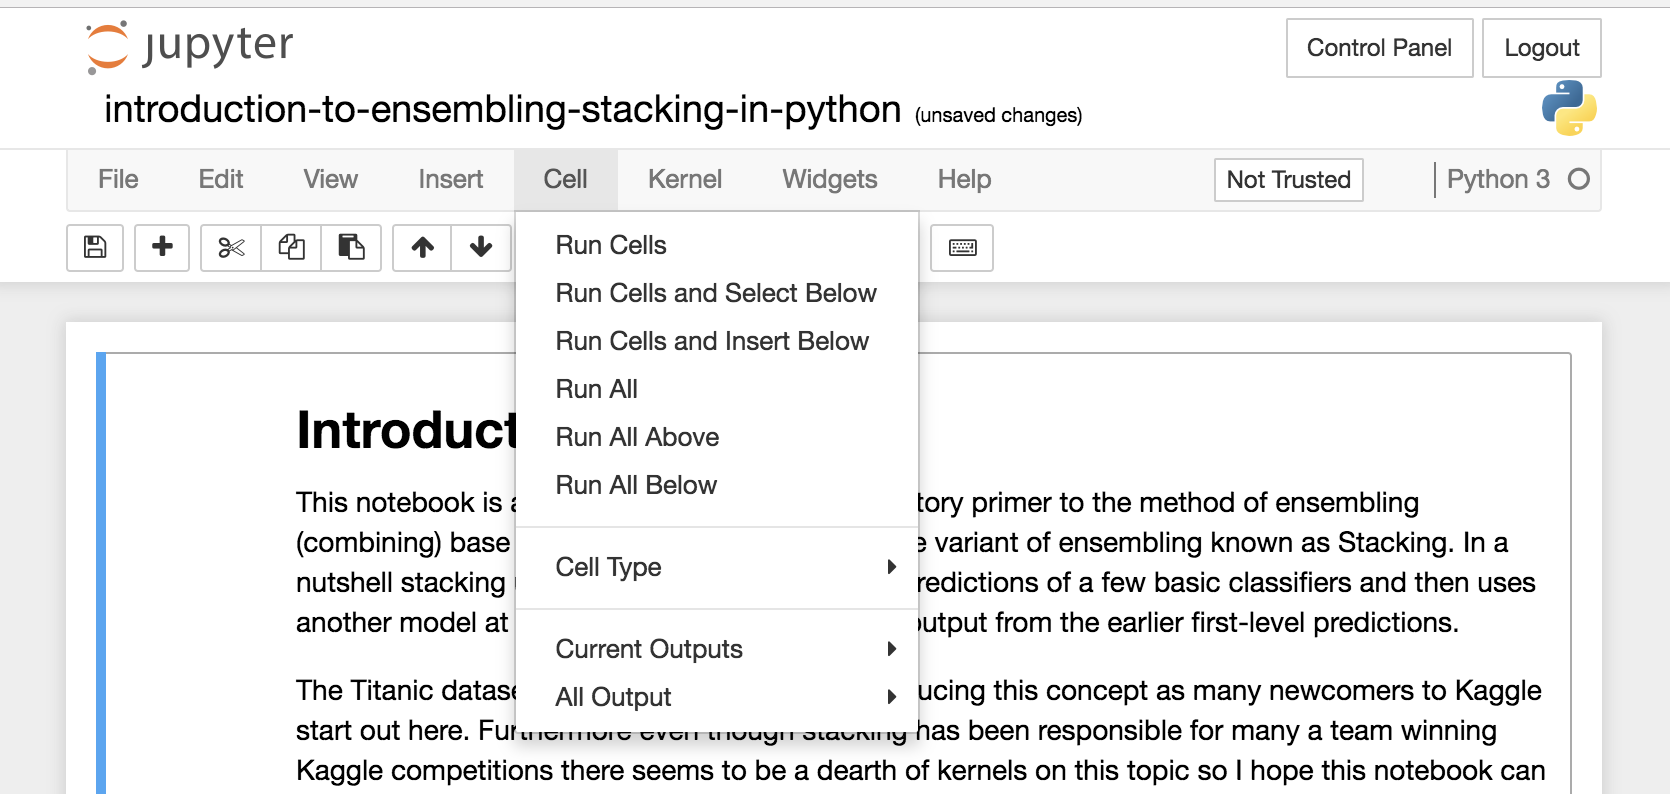
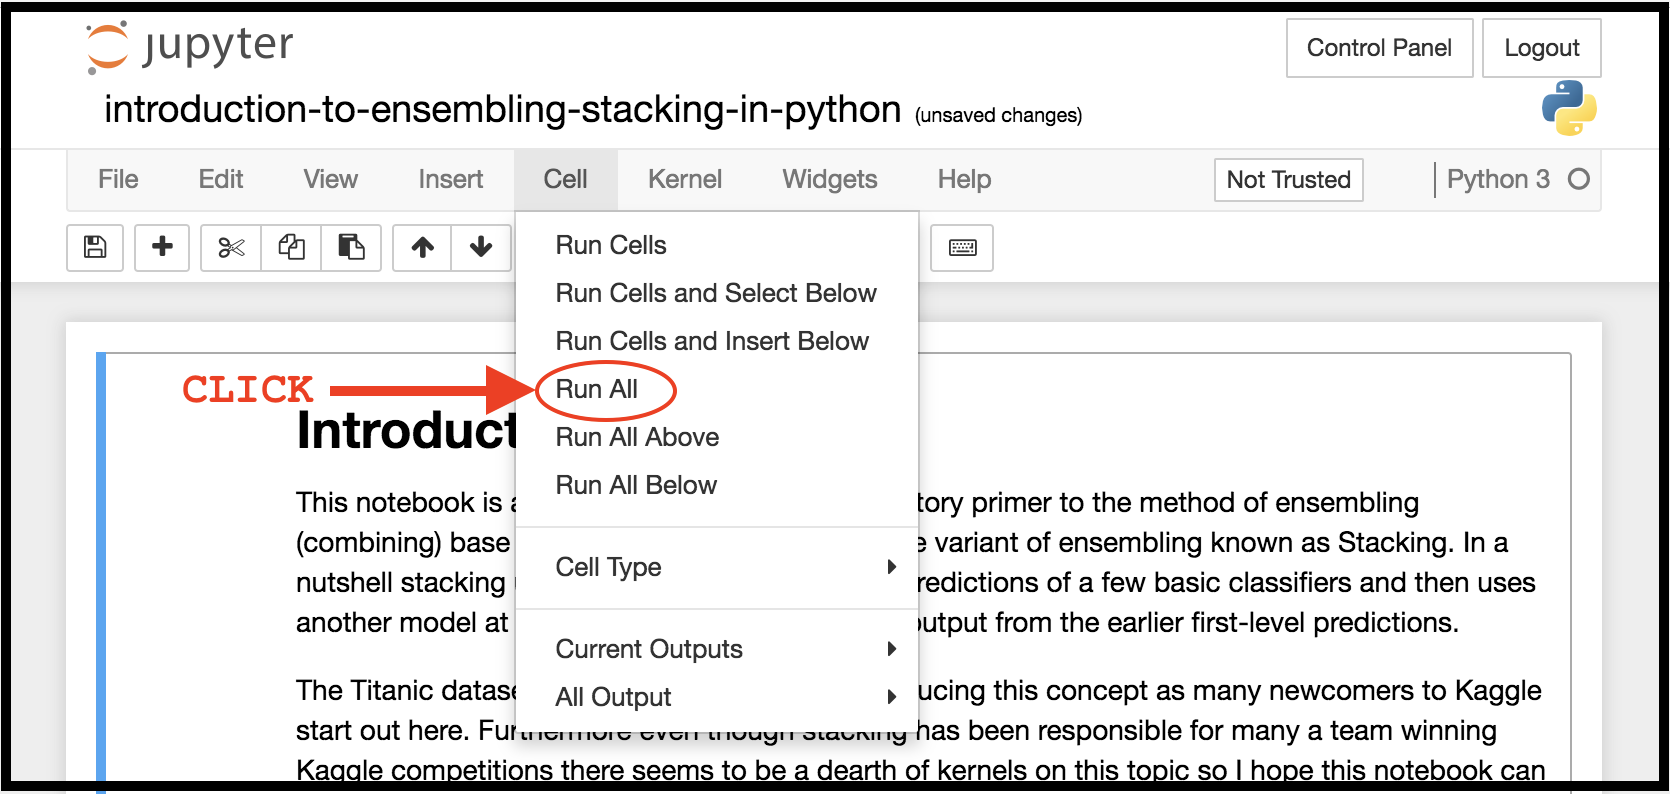
Add cloud shell and deployment pics
And adjust the getting started to direct people to the cloud shell

Changed region(s): [[0.0, 0.0, 1.0, 0.9975], [0.0934, 0.4534, 0.4048, 0.5441]]

diff --git a/README.md b/README.md
@@ -1,16 +1,35 @@
 # Kaggle on Kubeflow on Ubuntu
 
-This is a simple tutorial that walks through running a kaggle experiment on kubeflow on ubuntu.
+This is a simple tutorial that walks through running a kaggle experiment on kubeflow on microk8s on ubuntu.
 These instructions are highly reproducible and you'll be able to leverage them for any competition, with the ability to run your experiments locally or in the cloud.
 
-This tutorial is inpired by the [Kaggle on Kubeflow](https://www.kubeflow.org/blog/kaggle_on_kubeflow/) blog post on [kubeflow.org](https://www.kubeflow.org/).
+The demo will start with instructions for running everything within [GCP](https://cloud.google.com/), including a shell to run all the commands below. All you need is a browser.
 
+At the end of the exercise, you'll end up with a deployment that looks something like this:
+
+![deployment diagram](images/deployment.diagram.1.png)
+
+_NB: This tutorial is inpired by the [Kaggle on Kubeflow](https://www.kubeflow.org/blog/kaggle_on_kubeflow/) blog post on [kubeflow.org](https://www.kubeflow.org/)._
 
 # Setup Instructions
 
-## 0. Clone this repo
+## 0.1. Get a shell to run commands
 
-For instance:
+An easy, compute independent way to get a shell is to launch one in the browser. Google's
+cloud console comes with this mechanism. So we'll start there.
+
+Assuming you've created your google cloud account and you've created a project, go to the [console](https://console.cloud.google.com) and launch the shell:
+
+![cloud shell link](images/cloud.shell.1.png)
+
+This will bring up a section at the bottom of the screen, which is your shell:
+
+![cloud shell section](images/cloud.shell.2.png)
+
+## 0.2. Clone this repo
+
+From your shell, please run the following:
+
 ```
 $> git clone https://github.com/canonical-labs/kaggle-kubeflow-tutorial.git
 $> cd kaggle-kubeflow-tutorial
@@ -45,15 +64,17 @@ You'll need to generate a github token. You can do this on [github](https://gith
 ## 3. Setup Kubeflow and necessary Tools
 
 The following commands are idempotent - they only install things if they are missing. At the end, you'll have a Kubeflow that you can log into. The last command will print the **port** number of the JupyterHub notebook. Combine that with the IP address of your ubuntu machine (eg the external IP address of a GCP VM instance)
+
 ```
+:~$ export GITHUB_TOKEN=<your token>
 :~$ ./scripts_download.sh
-  :~$ export GITHUB_TOKEN=<your token>
 :~$ ./scripts_run.sh
 ```
 You should see the Jupyter port number at the end:
 ![jupyter port](images/tutorial.1.jupyter-port.png)
 
 **NB: If you run into errors, run the cleanup script and try again:**
+
 ```
 :~$ ./cleanup_k8s.sh
 ```
@@ -65,12 +86,14 @@ You should see the Jupyter port number at the end:
 ### 4.a. Enter the JupyterHub URL in the browser
 
 1. If running a VM, go back to your laptop and run:
+
 ```
 gcp/compute_list.sh
 ```
 ![vm address](images/tutorial.2.vm-address.png)
 
 2. Use the **EXTERNAL_IP** address in your browser, combined with the **PORT** address from the ` ./scripts_run.sh` command.
+
 ```
 http://<EXTERNAL_IP>:<PORT>
 ```
@@ -169,6 +192,8 @@ jovyan@jupyter-tutorial:~$ cd ~/work; kaggle kernels pull arthurtok/introduction
 
 Open the notebook in the browser, and run all cells.
 
+![Run All](images/jupyter.kaggle.9b-run-all.png)
+
 ## 9. Review Visualization
 
 Here are a few examples of the visualizations that are present in the notebook:
@@ -194,4 +219,55 @@ Here are a few examples of the visualizations that are present in the notebook:
 ![visual #5](images/jupyter.kaggle.visuals-5.png)
 
 
-## 10. Review Code
+## 10. Delete your VM
+
+Once you are done exploring, please delete your VM. Otherwise you'll continue to incur some costs associated with the running VM.
+
+```
+gcp/compute_delete.sh
+```
+
+## Summary of all steps
+
+Here is a summary of all the steps, starting from the initial shell:
+
+```
+# From initial shell:
+git clone https://github.com/canonical-labs/kaggle-kubeflow-tutorial.git
+cd kaggle-kubeflow-tutorial
+export GCP_PROJECT=<the Project Id of the project you created>
+gcp/network_create.sh
+gcp/compute_create.sh
+gcp/copy_scripts.sh
+gcp/compute_ssh.sh
+
+# From the VM:
+export GITHUB_TOKEN=<your token>
+./scripts_download.sh
+./scripts_run.sh # note the jupyterhub port number
+exit
+
+# From the initial shell:
+gcp/compute_list.sh # note the external IP address
+
+# From the browser
+http://<EXTERNAL_IP>:<PORT>
+# enter any username / password
+# <click> Start My Server
+# gcr.io/kubeflow-images-public/kaggle-notebook:v20180713 ,, 4.0 ,, 10Gi
+# <click> Spawn
+
+# From jupyter terminal:
+# <click> New --> Terminal
+export PYTHONUSERBASE=/home/jovyan/.local
+pip install --user kaggle
+export PATH=/home/jovyan/.local/bin:$PATH
+export KAGGLE_USERNAME=<your account>
+export KAGGLE_KEY=<your key>
+mkdir ~/input; cd ~/input; kaggle competitions download -c titanic
+cd ~/work; kaggle kernels pull arthurtok/introduction-to-ensembling-stacking-in-python
+
+# View the notebook, Cell -> Run All
+# View the results and code
+
+```
